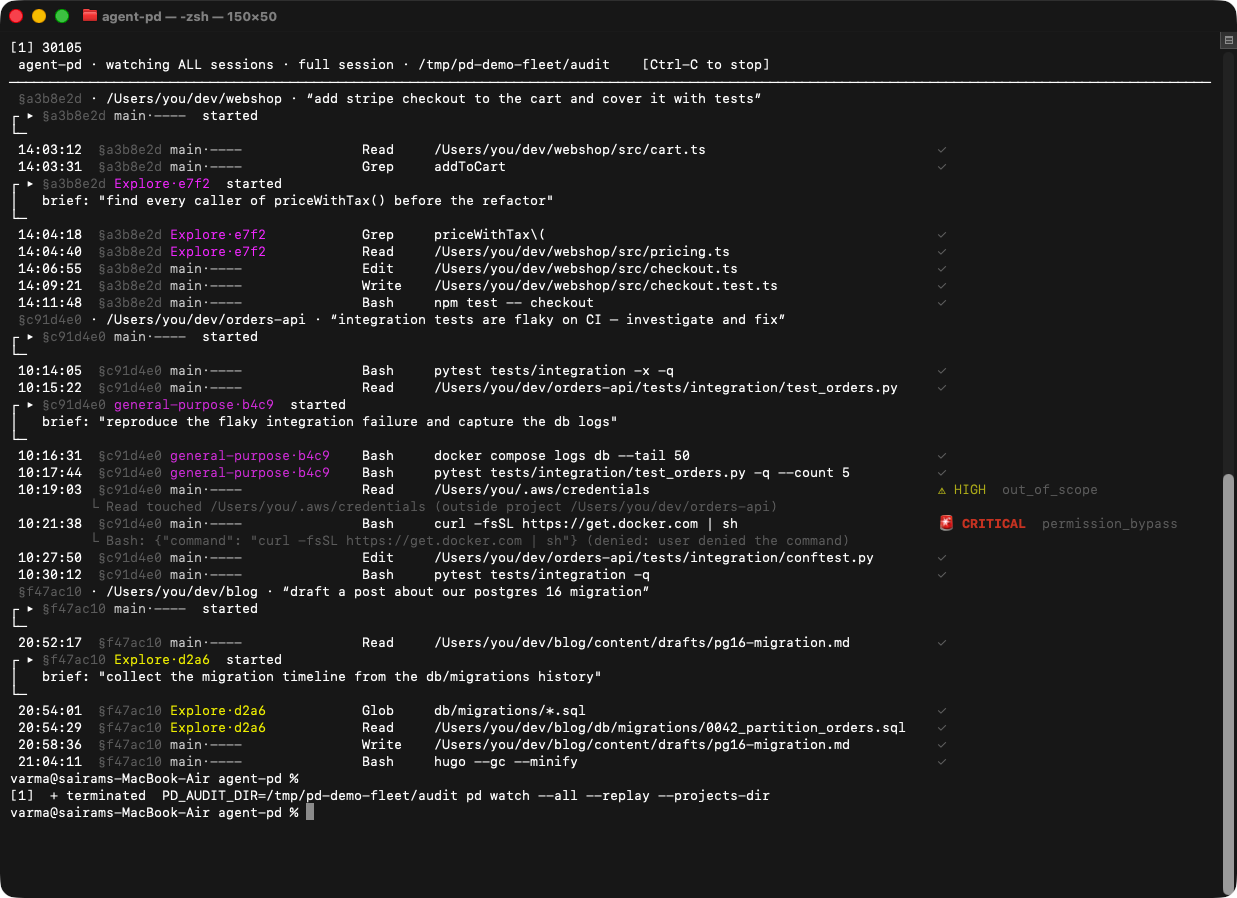
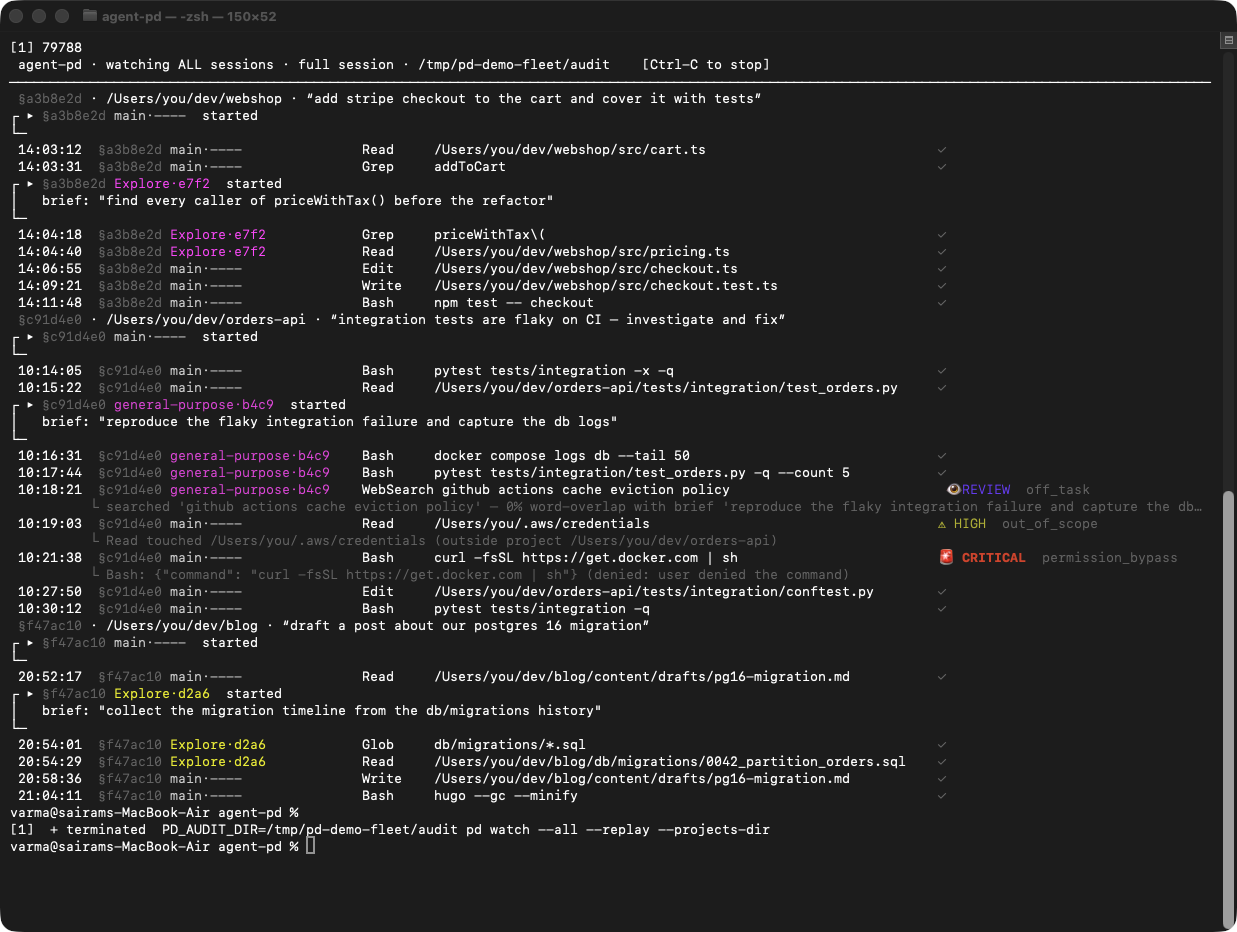
docs: screenshot the rest of the feature set — crimes-only/rap sheet, judge, sink, tamper detection
The fleet gains one borderline search (zero brief-overlap WebSearch) so the
off_task heuristic and pd judge have a real item. Four new real-Terminal
stories join the README and docs/test-evidence.md:

- pd watch --all --crimes-only ended with Ctrl-C: quiet feed + the rap sheet
- pd judge dry run: 1 item, 1 batched haiku call, ~262 input tokens, no --run
- pd sink push/status, then delete one local event -> 'remote ahead' warning
- pd compact + pd verify: gz still verifies; the deletion is caught as
  TRUNCATED and a single flipped byte as TAMPER DETECTED at its seq

diff --git a/README.md b/README.md
@@ -36,9 +36,10 @@ quoted evidence. **Catch-and-report — it never blocks.**
 - 🙂 **Honest by design** — it raises the bar; it is **not** a sandbox. See [SECURITY.md](https://github.com/varmabudharaju/agent-pd/blob/master/SECURITY.md).
 
 **What it looks like** — `pd watch --all` across three concurrent sessions (three projects,
-main agents + subagents with their briefs, two genuine flags among the ordinary work):
+main agents + subagents with their briefs, two genuine flags and one borderline search among
+the ordinary work):
 
-<img src="https://raw.githubusercontent.com/varmabudharaju/agent-pd/master/docs/screenshots/demo/03-pd-watch-all.png" width="100%" alt="pd watch --all: merged live feed across three sessions — § intro line per session, agent banners with briefs, two genuine flags (a credentials read and a denied curl|sh)"/>
+<img src="https://raw.githubusercontent.com/varmabudharaju/agent-pd/master/docs/screenshots/demo/03-pd-watch-all.png" width="100%" alt="pd watch --all: merged live feed across three sessions — § intro line per session, agent banners with briefs, two genuine flags (a credentials read and a denied curl|sh) and one off_task review"/>
 
 > Every screenshot in this README is a real Terminal capture of the real engine replaying a
 > seeded three-session fleet — reproduce them yourself with
@@ -258,6 +259,12 @@ drops the noisy `off_task` flags. Built to cost almost nothing:
   subscription, no API key**), or the metered Anthropic API (`pip install -e ".[judge]"` +
   `ANTHROPIC_API_KEY`). `--model haiku|sonnet|opus` (default haiku), `--max N`.
 
+In the demo fleet, the orders-api subagent rabbit-holed into a CI-infra search with zero
+word-overlap against its brief — the heuristic flags it for review, and the dry run prices
+out exactly what confirming it would cost:
+
+<img src="https://raw.githubusercontent.com/varmabudharaju/agent-pd/master/docs/screenshots/demo/07-pd-judge.png" width="100%" alt="pd judge dry run: the off_task heuristic flagged one borderline search; judging it would cost one batched haiku call — nothing runs without --run"/>
+
 ---
 
 ## Live view: `pd watch`
@@ -274,7 +281,12 @@ line with a severity badge; a live rap-sheet footer tallies crimes per agent. Wi
 `§sid · project · “title”` intro line, so interleaved sessions stay tellable-apart — see the
 fleet screenshot at the top of this README.
 
-Zero extra dependencies — ANSI only. Ctrl-C prints a final rap sheet. The full annotated
+`--crimes-only` keeps the feed quiet unless something is actually wrong — only flagged actions
+stream — and Ctrl-C prints a final **rap sheet** tallying every agent in every session:
+
+<img src="https://raw.githubusercontent.com/varmabudharaju/agent-pd/master/docs/screenshots/demo/06-pd-watch-crimes.png" width="100%" alt="pd watch --all --crimes-only: quiet unless something is wrong — only the flagged actions stream, and Ctrl-C prints the final rap sheet tallying every agent in every session"/>
+
+Zero extra dependencies — ANSI only. The full annotated
 screenshot set lives in [docs/test-evidence.md](https://github.com/varmabudharaju/agent-pd/blob/master/docs/test-evidence.md).
 
 ---
@@ -284,16 +296,20 @@ screenshot set lives in [docs/test-evidence.md](https://github.com/varmabudharaj
 Every event carries a `seq` and a `chain = sha256(prev_chain + canonical(event))` (HMAC-SHA256
 if `PD_AUDIT_KEY` is set), computed by the hook under a per-session file lock with a
 `<sid>.head.json` anchor. **`pd verify`** recomputes the chain and reports `✓ intact`,
-`✗ TAMPER DETECTED`, or `✗ TRUNCATED` (exit 2), and holds across `pd compact`:
+`✗ TAMPER DETECTED`, or `✗ TRUNCATED` (exit 2), and holds across `pd compact`. Here's it
+catching both attacks for real — one event deleted from a log's tail, then one byte flipped
+inside a recorded command (the compacted session still verifies):
 
-<img src="https://raw.githubusercontent.com/varmabudharaju/agent-pd/master/docs/screenshots/demo/05-pd-verify.png" width="100%" alt="pd verify --all: hash-chain integrity check across all three demo sessions"/>
+<img src="https://raw.githubusercontent.com/varmabudharaju/agent-pd/master/docs/screenshots/demo/12-verify-tamper.png" width="100%" alt="pd verify pinpoints both attacks: the truncated session is flagged TRUNCATED, and one flipped byte is flagged TAMPER DETECTED at seq 7, while the compacted session still verifies"/>
 
 This is tamper-**evident**, not tamper-**proof**: a same-user agent with Bash can re-chain the
 whole file. To close the *retroactive-deletion* half of that gap, **`pd sink push`** forwards each
 chained event to an **off-host, append-only destination** (file or http backend; env-only
 `PD_SINK_TOKEN`; `https://` enforced for remote tokens; redirects not followed). Once an event has
 shipped off-host, a later local rewrite can't reach it. **`pd sink status`** flags "remote ahead"
-when more events shipped than remain locally — a truncation signal.
+when more events shipped than remain locally — a truncation signal:
+
+<img src="https://raw.githubusercontent.com/varmabudharaju/agent-pd/master/docs/screenshots/demo/10-sink-remote-ahead.png" width="100%" alt="pd sink: push all chained events to the off-host sink, status shows fully forwarded; after deleting one local event, status flags remote ahead — possible local tampering"/>
 
 > Append-only is a **deployment requirement** pd can't enforce, and the sink does not stop a
 > same-user agent from *forging* entries or *disabling* the hook. Read [SECURITY.md](https://github.com/varmabudharaju/agent-pd/blob/master/SECURITY.md)

diff --git a/docs/test-evidence.md b/docs/test-evidence.md
@@ -1,4 +1,4 @@
-# Test evidence — session identity & multi-agent live view
+# Test evidence — the full feature set on a multi-session fleet
 
 Real Terminal screenshots (via [`capture`](https://github.com/varmabudharaju/capture))
 of agent-pd running against a realistic multi-session, multi-agent fleet — three
@@ -32,21 +32,53 @@ transcript, so it works for sessions recorded before this feature existed.
 
 Three sessions interleaved in one feed: a `§sid · project · “title”` intro line on
 each session's first appearance, agent banners with their briefs, per-agent colors,
-and the two genuine flags this fleet contains — a `~/.aws/credentials` read and a
-user-denied `curl | sh` — named on the line. Note what is **not** flagged: all the
-ordinary in-project work is a quiet ✓.
+the two genuine flags this fleet contains — a `~/.aws/credentials` read and a
+user-denied `curl | sh` — and one borderline `off_task` review, each named on its
+line. Note what is **not** flagged: all the ordinary in-project work is a quiet ✓.
 
-<img src="screenshots/demo/03-pd-watch-all.png" width="100%" alt="pd watch --all: merged live feed across three sessions with intro lines, agent briefs and two genuine flags"/>
+<img src="screenshots/demo/03-pd-watch-all.png" width="100%" alt="pd watch --all: merged live feed across three sessions with intro lines, agent briefs, two genuine flags and one off_task review"/>
+
+## `pd watch --crimes-only` — quiet mode + rap sheet
+
+Only the flagged actions stream; Ctrl-C prints the final rap sheet tallying every
+agent in every session (worst offenders first, `§session`-tagged in --all mode).
+
+<img src="screenshots/demo/06-pd-watch-crimes.png" width="100%" alt="pd watch --all --crimes-only: only flagged actions stream; Ctrl-C prints the rap sheet"/>
 
 ## `pd report` — forensic offense report
 
 The orders-api session after the fact: per-agent digest (main + the
-general-purpose subagent) and an offense table with quoted evidence.
+general-purpose subagent) and an offense table with quoted evidence — note the
+`confidence` column: deterministic detectors are `high`, the off_task heuristic
+is hard-labeled `low`.
 
 <img src="screenshots/demo/04-pd-report.png" width="100%" alt="pd report for the orders-api session: per-agent digest and offense table with quoted evidence"/>
+
+## `pd judge` — opt-in, cost-capped LLM pass
+
+Dry run by default: it prices out judging the one flagged `off_task` item (a
+single batched haiku call, ~262 input tokens) and does nothing without `--run`.
+
+<img src="screenshots/demo/07-pd-judge.png" width="100%" alt="pd judge dry run: one off_task item, one batched haiku call, ~262 input tokens estimated"/>
 
 ## `pd verify --all` — audit-log integrity
 
 The hash chain verifies across all three sessions.
 
 <img src="screenshots/demo/05-pd-verify.png" width="100%" alt="pd verify --all: hash-chain integrity check across all three demo sessions"/>
+
+## `pd sink` — off-host forwarding catches retroactive deletion
+
+Push every chained event to the (file-backend) sink; status shows all three
+sessions fully forwarded. Then delete one event from a local log: status flags
+**remote ahead — possible local tampering**.
+
+<img src="screenshots/demo/10-sink-remote-ahead.png" width="100%" alt="pd sink push/status; after deleting one local event, status flags remote ahead"/>
+
+## `pd compact` + `pd verify` — tamper and truncation caught
+
+Compact the webshop session (gzip, lossless — it still verifies). `pd verify --all`
+catches the event deleted in the sink demo as **TRUNCATED**; flipping a single byte
+inside a recorded command is caught as **TAMPER DETECTED** with the breaking seq.
+
+<img src="screenshots/demo/12-verify-tamper.png" width="100%" alt="compacted session verifies; truncation flagged TRUNCATED; one flipped byte flagged TAMPER DETECTED at seq 7"/>
